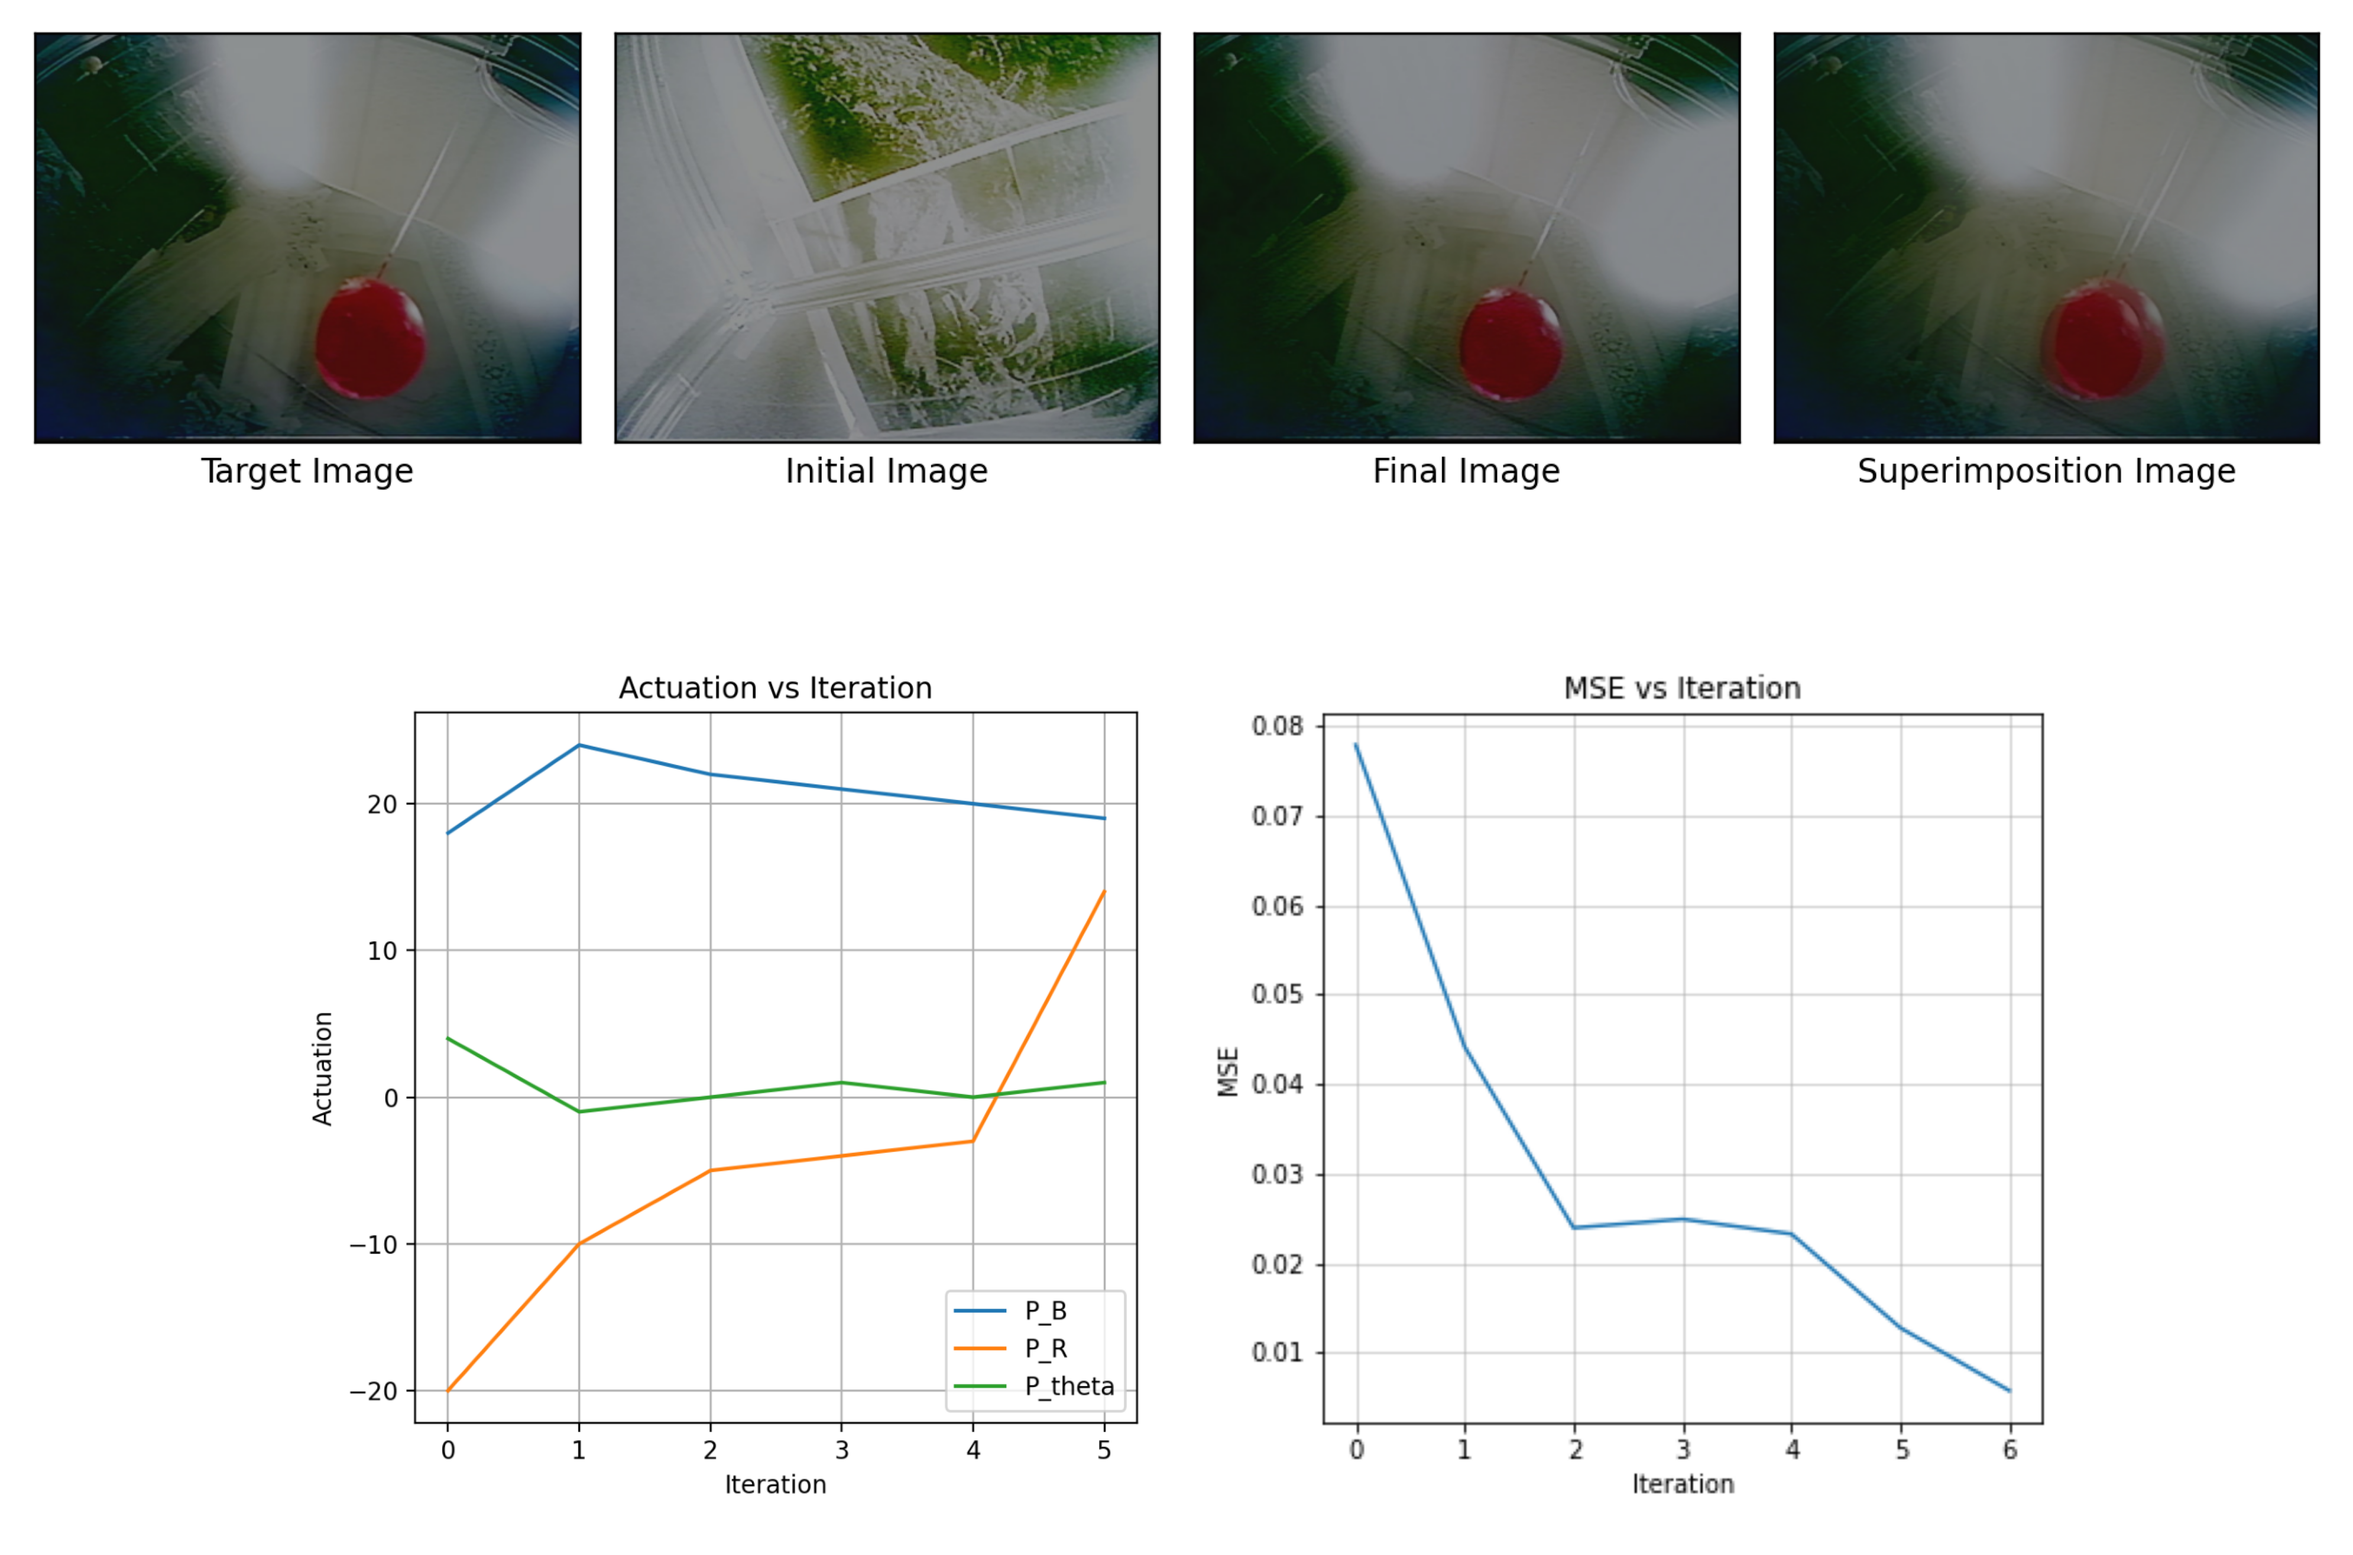
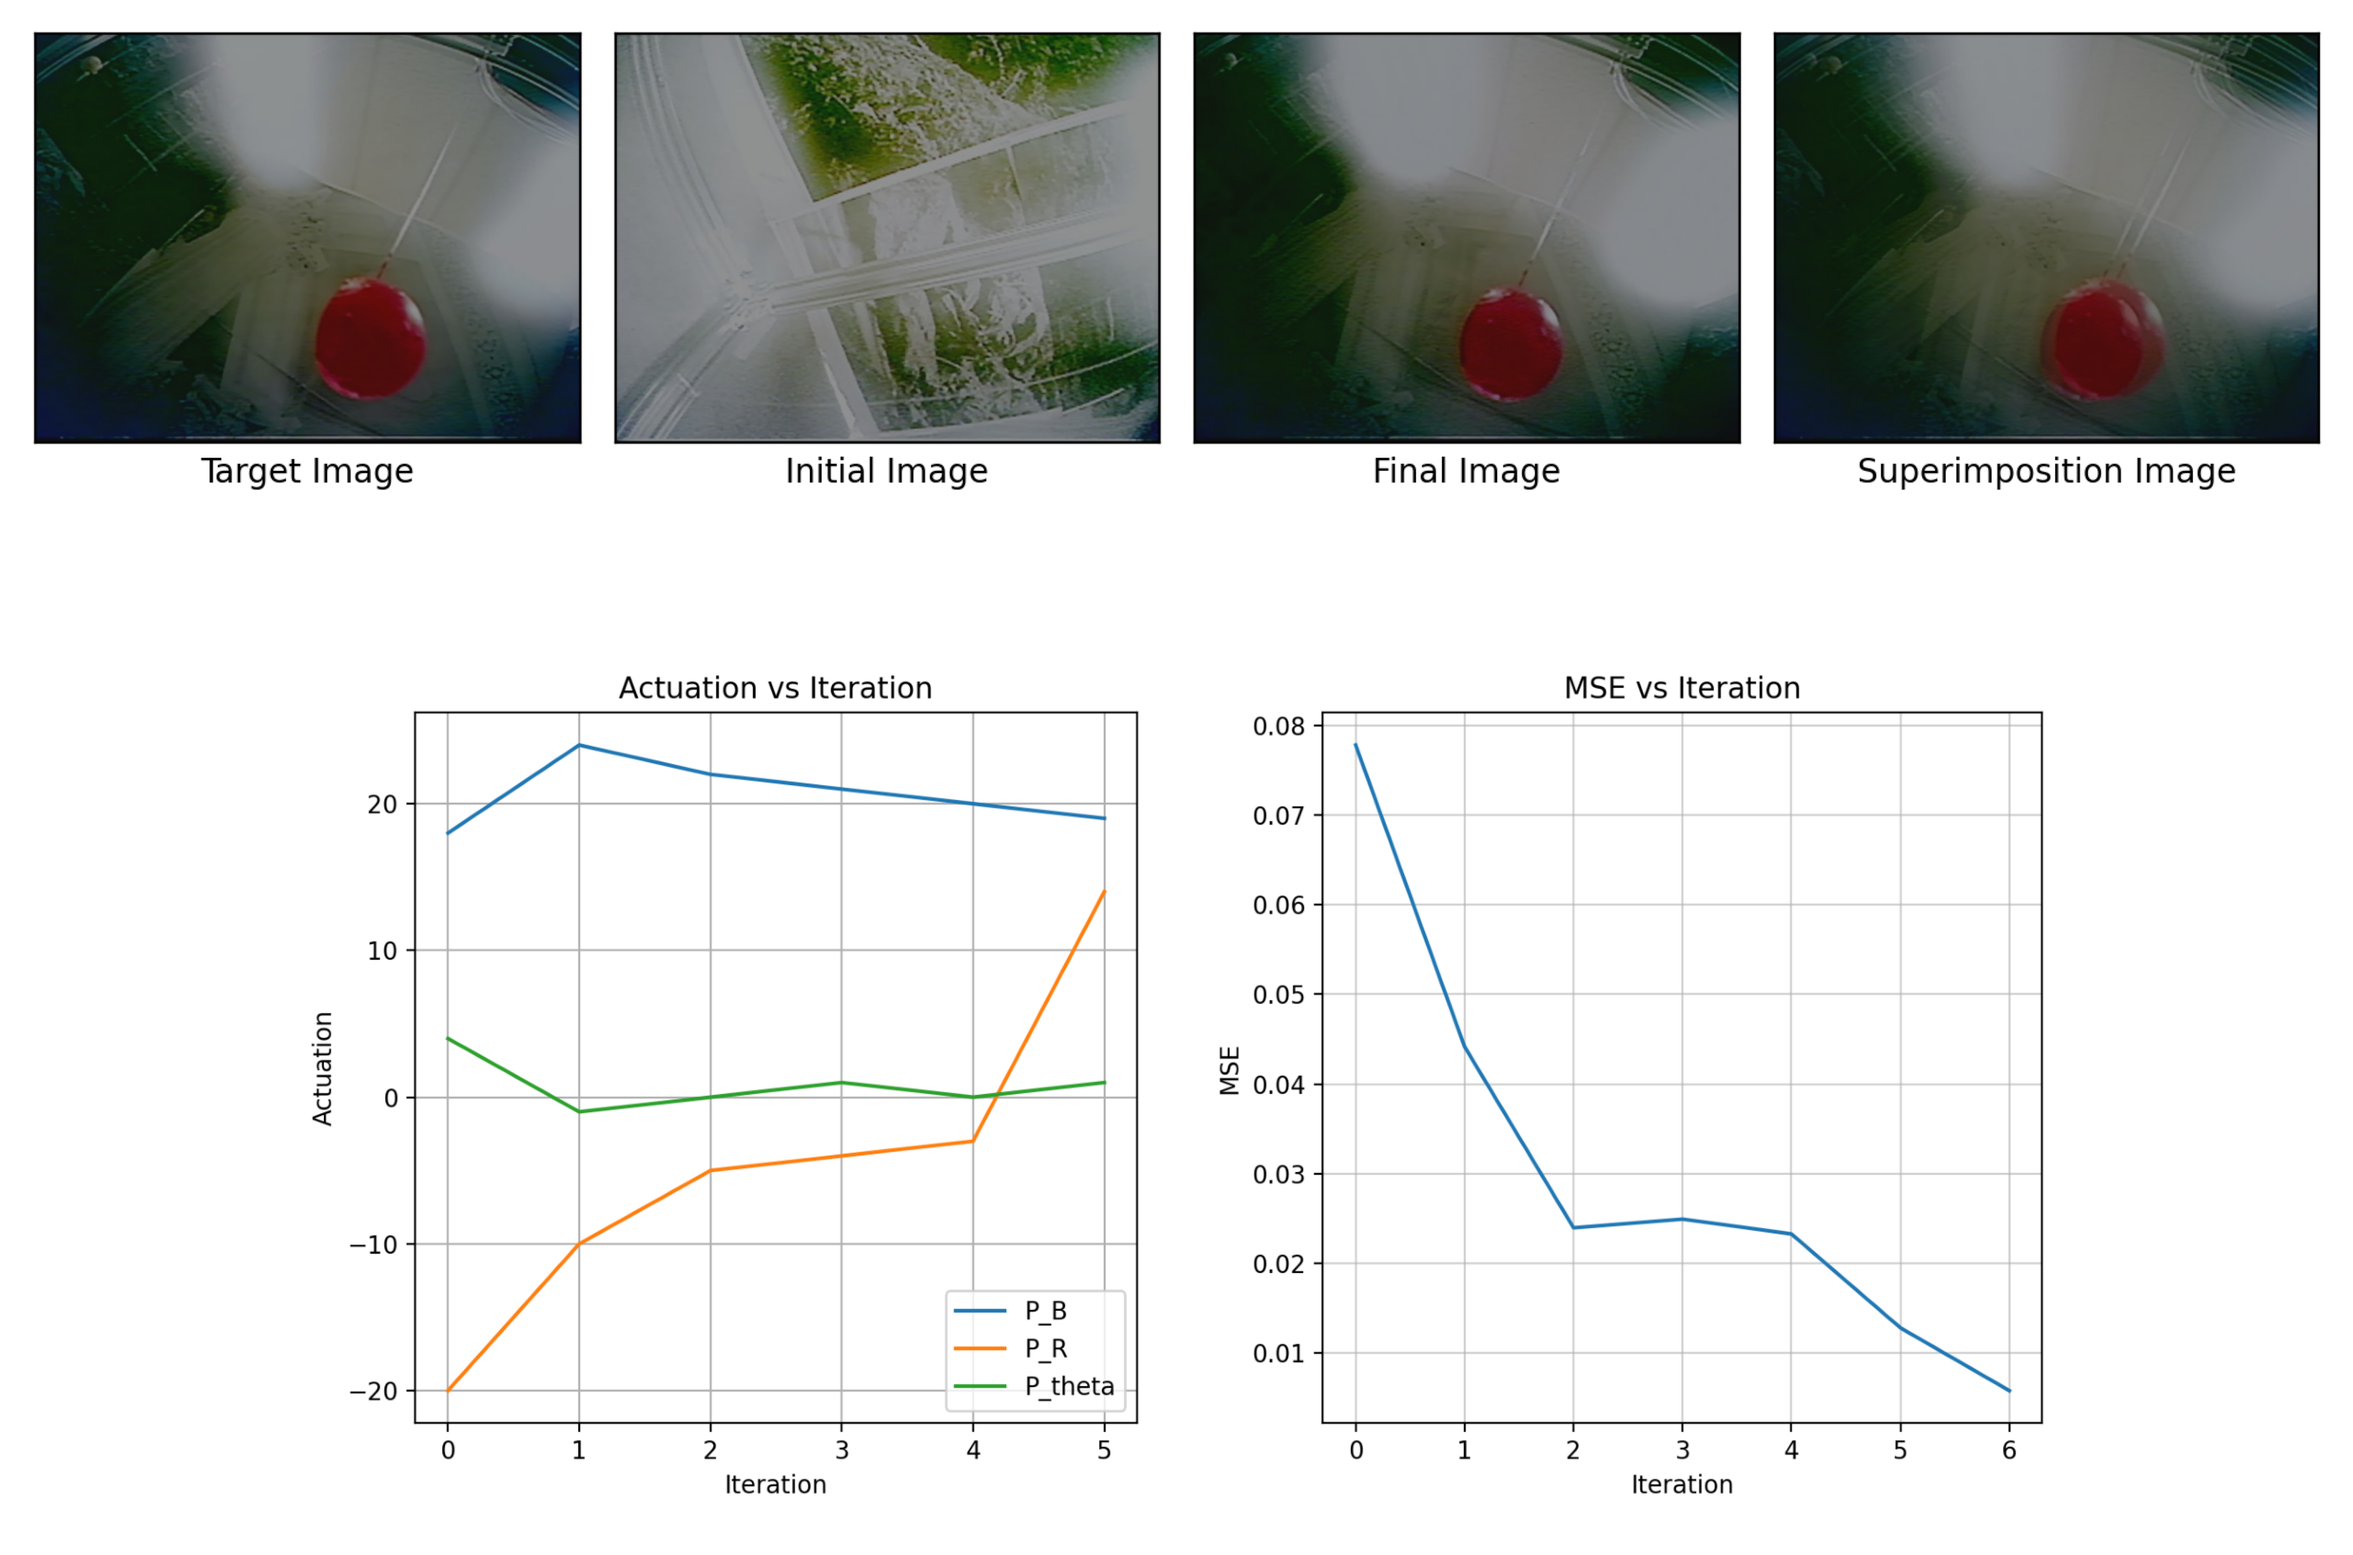
Higher Quality MSE Fixed

diff --git a/vis.py b/vis.py
@@ -239,7 +239,7 @@ fig1, ax1 = plt.subplots(1, 2, figsize=(10, 20))
 
 img_act = Image.open(os.path.join('images/', path, 'results/actuation_curve.png'))
 
-img_mse = Image.open(os.path.join('images/', path, 'results/msecurve.png'))
+img_mse = Image.open(os.path.join('images/', path, 'results/mse_curve.png'))
 
 ax1[0].imshow(img_act)
 ax1[0].axis('off')
